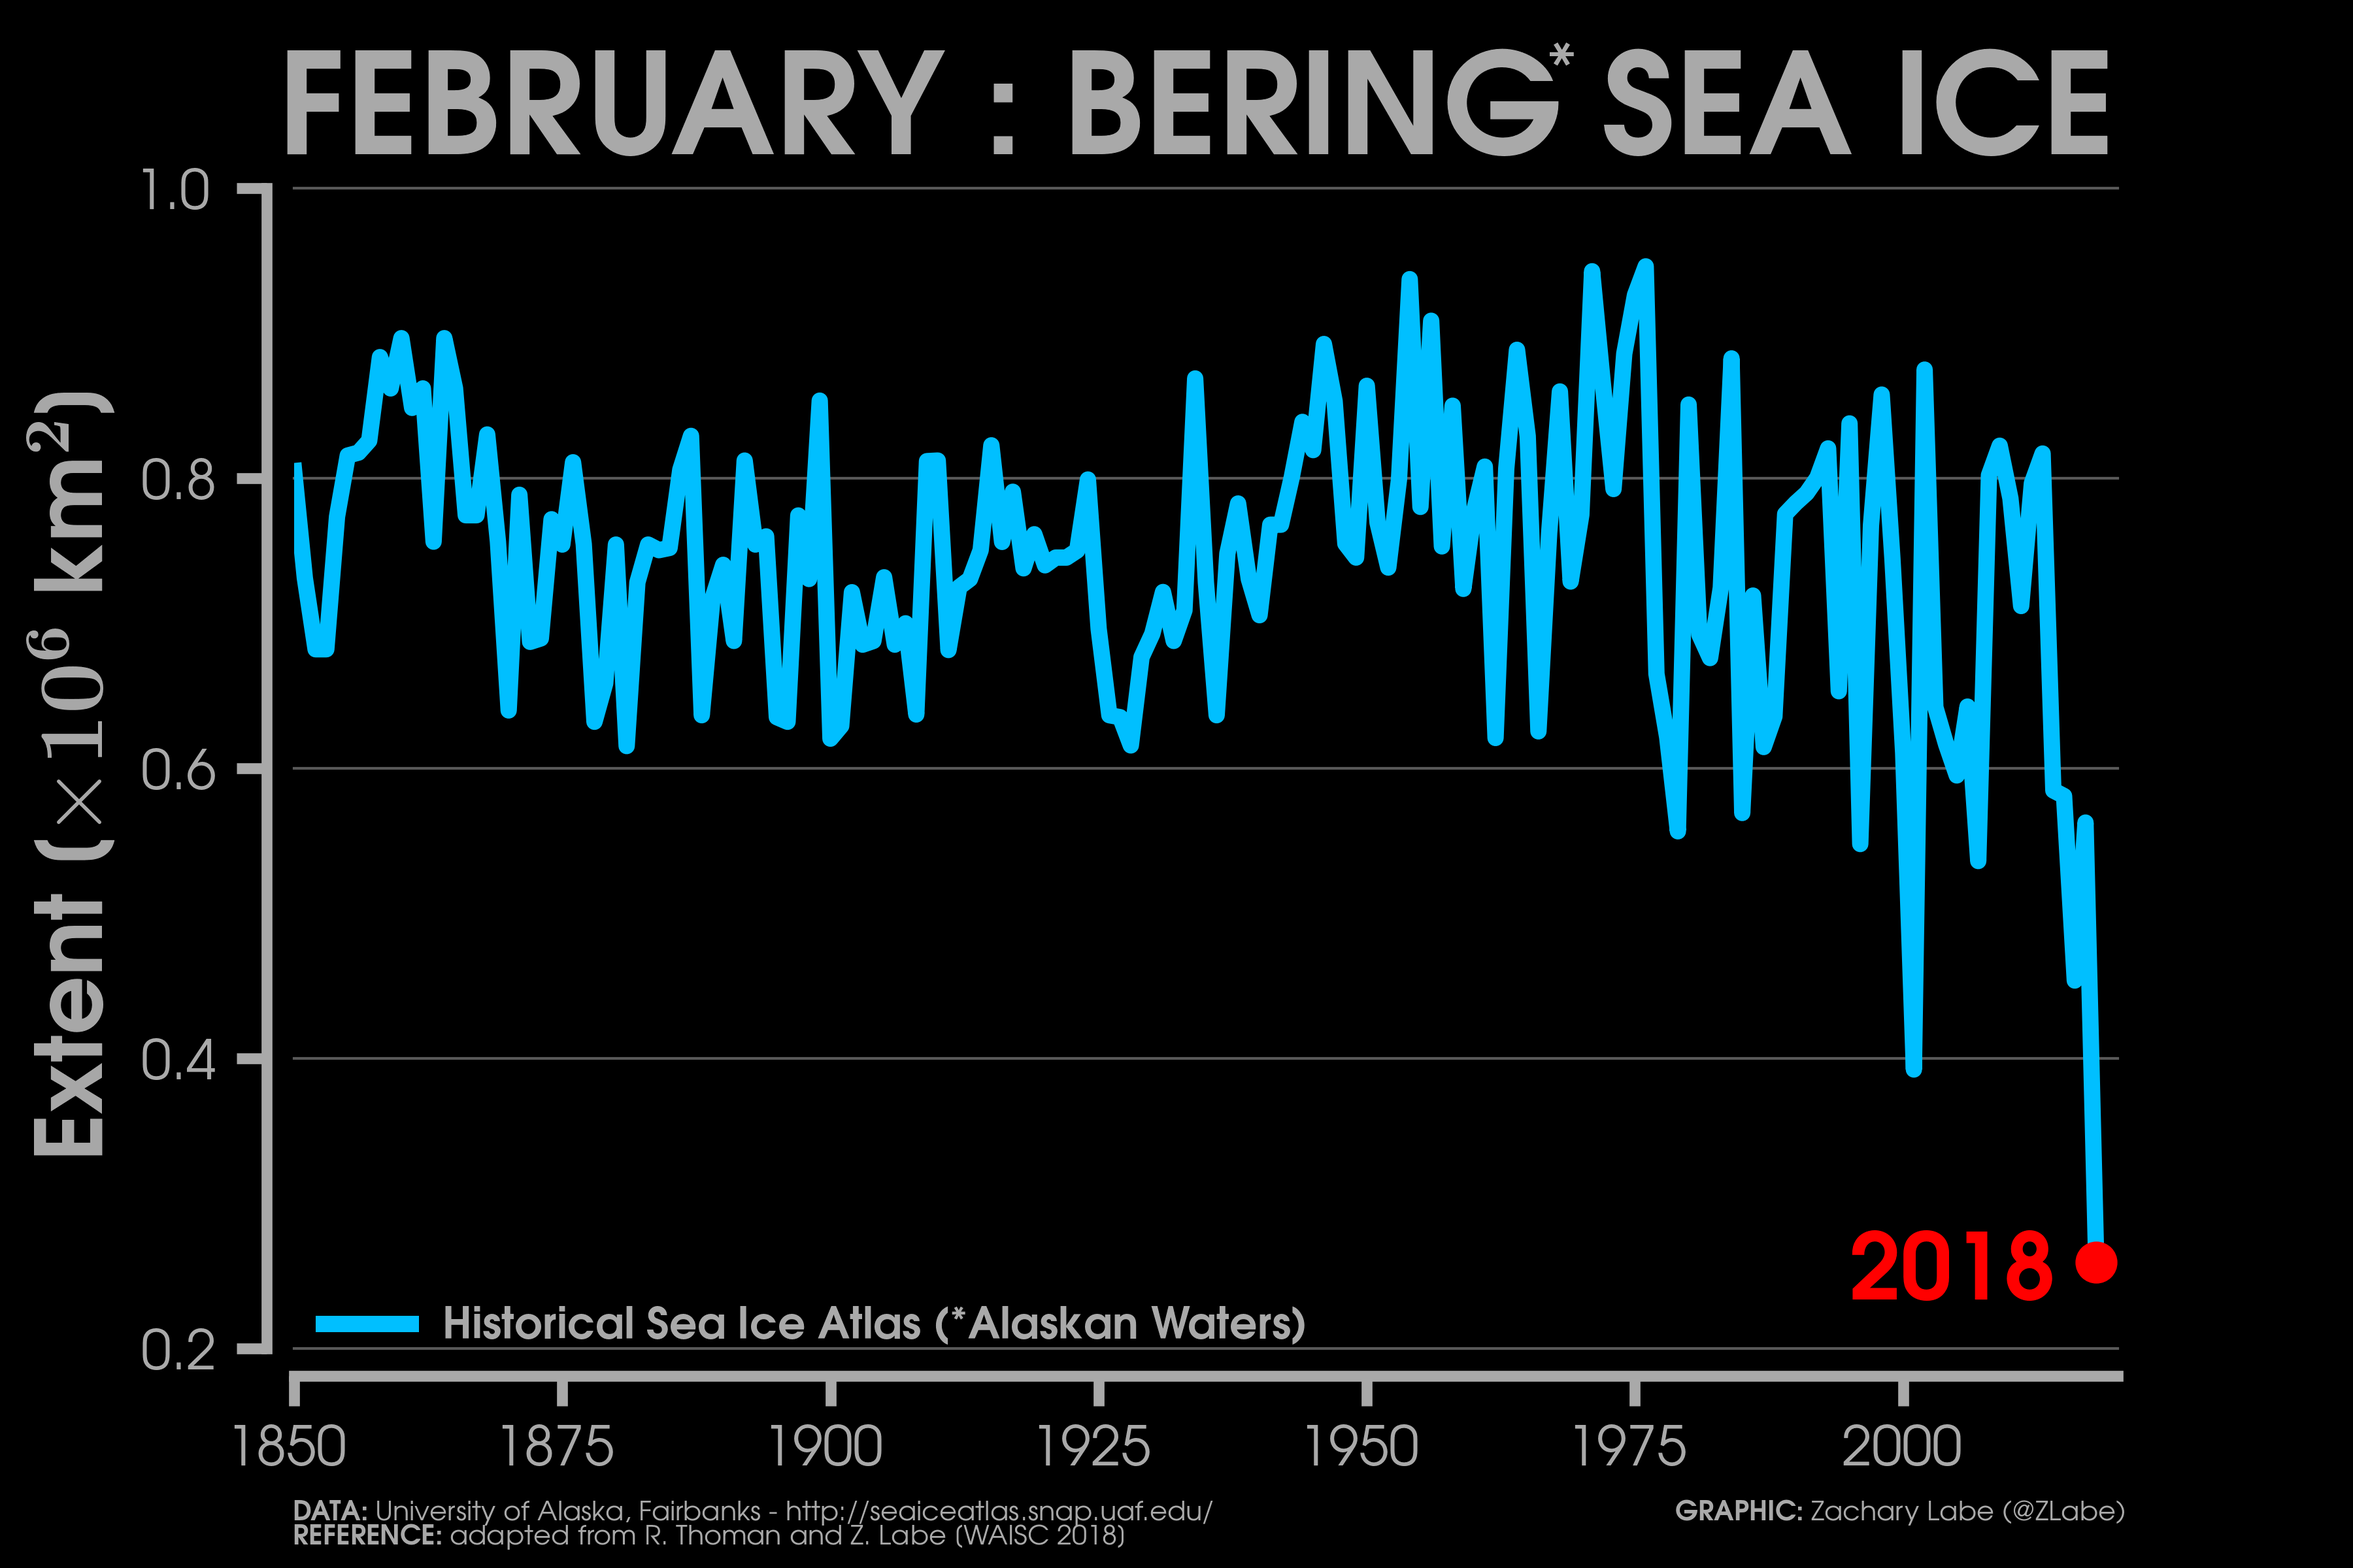
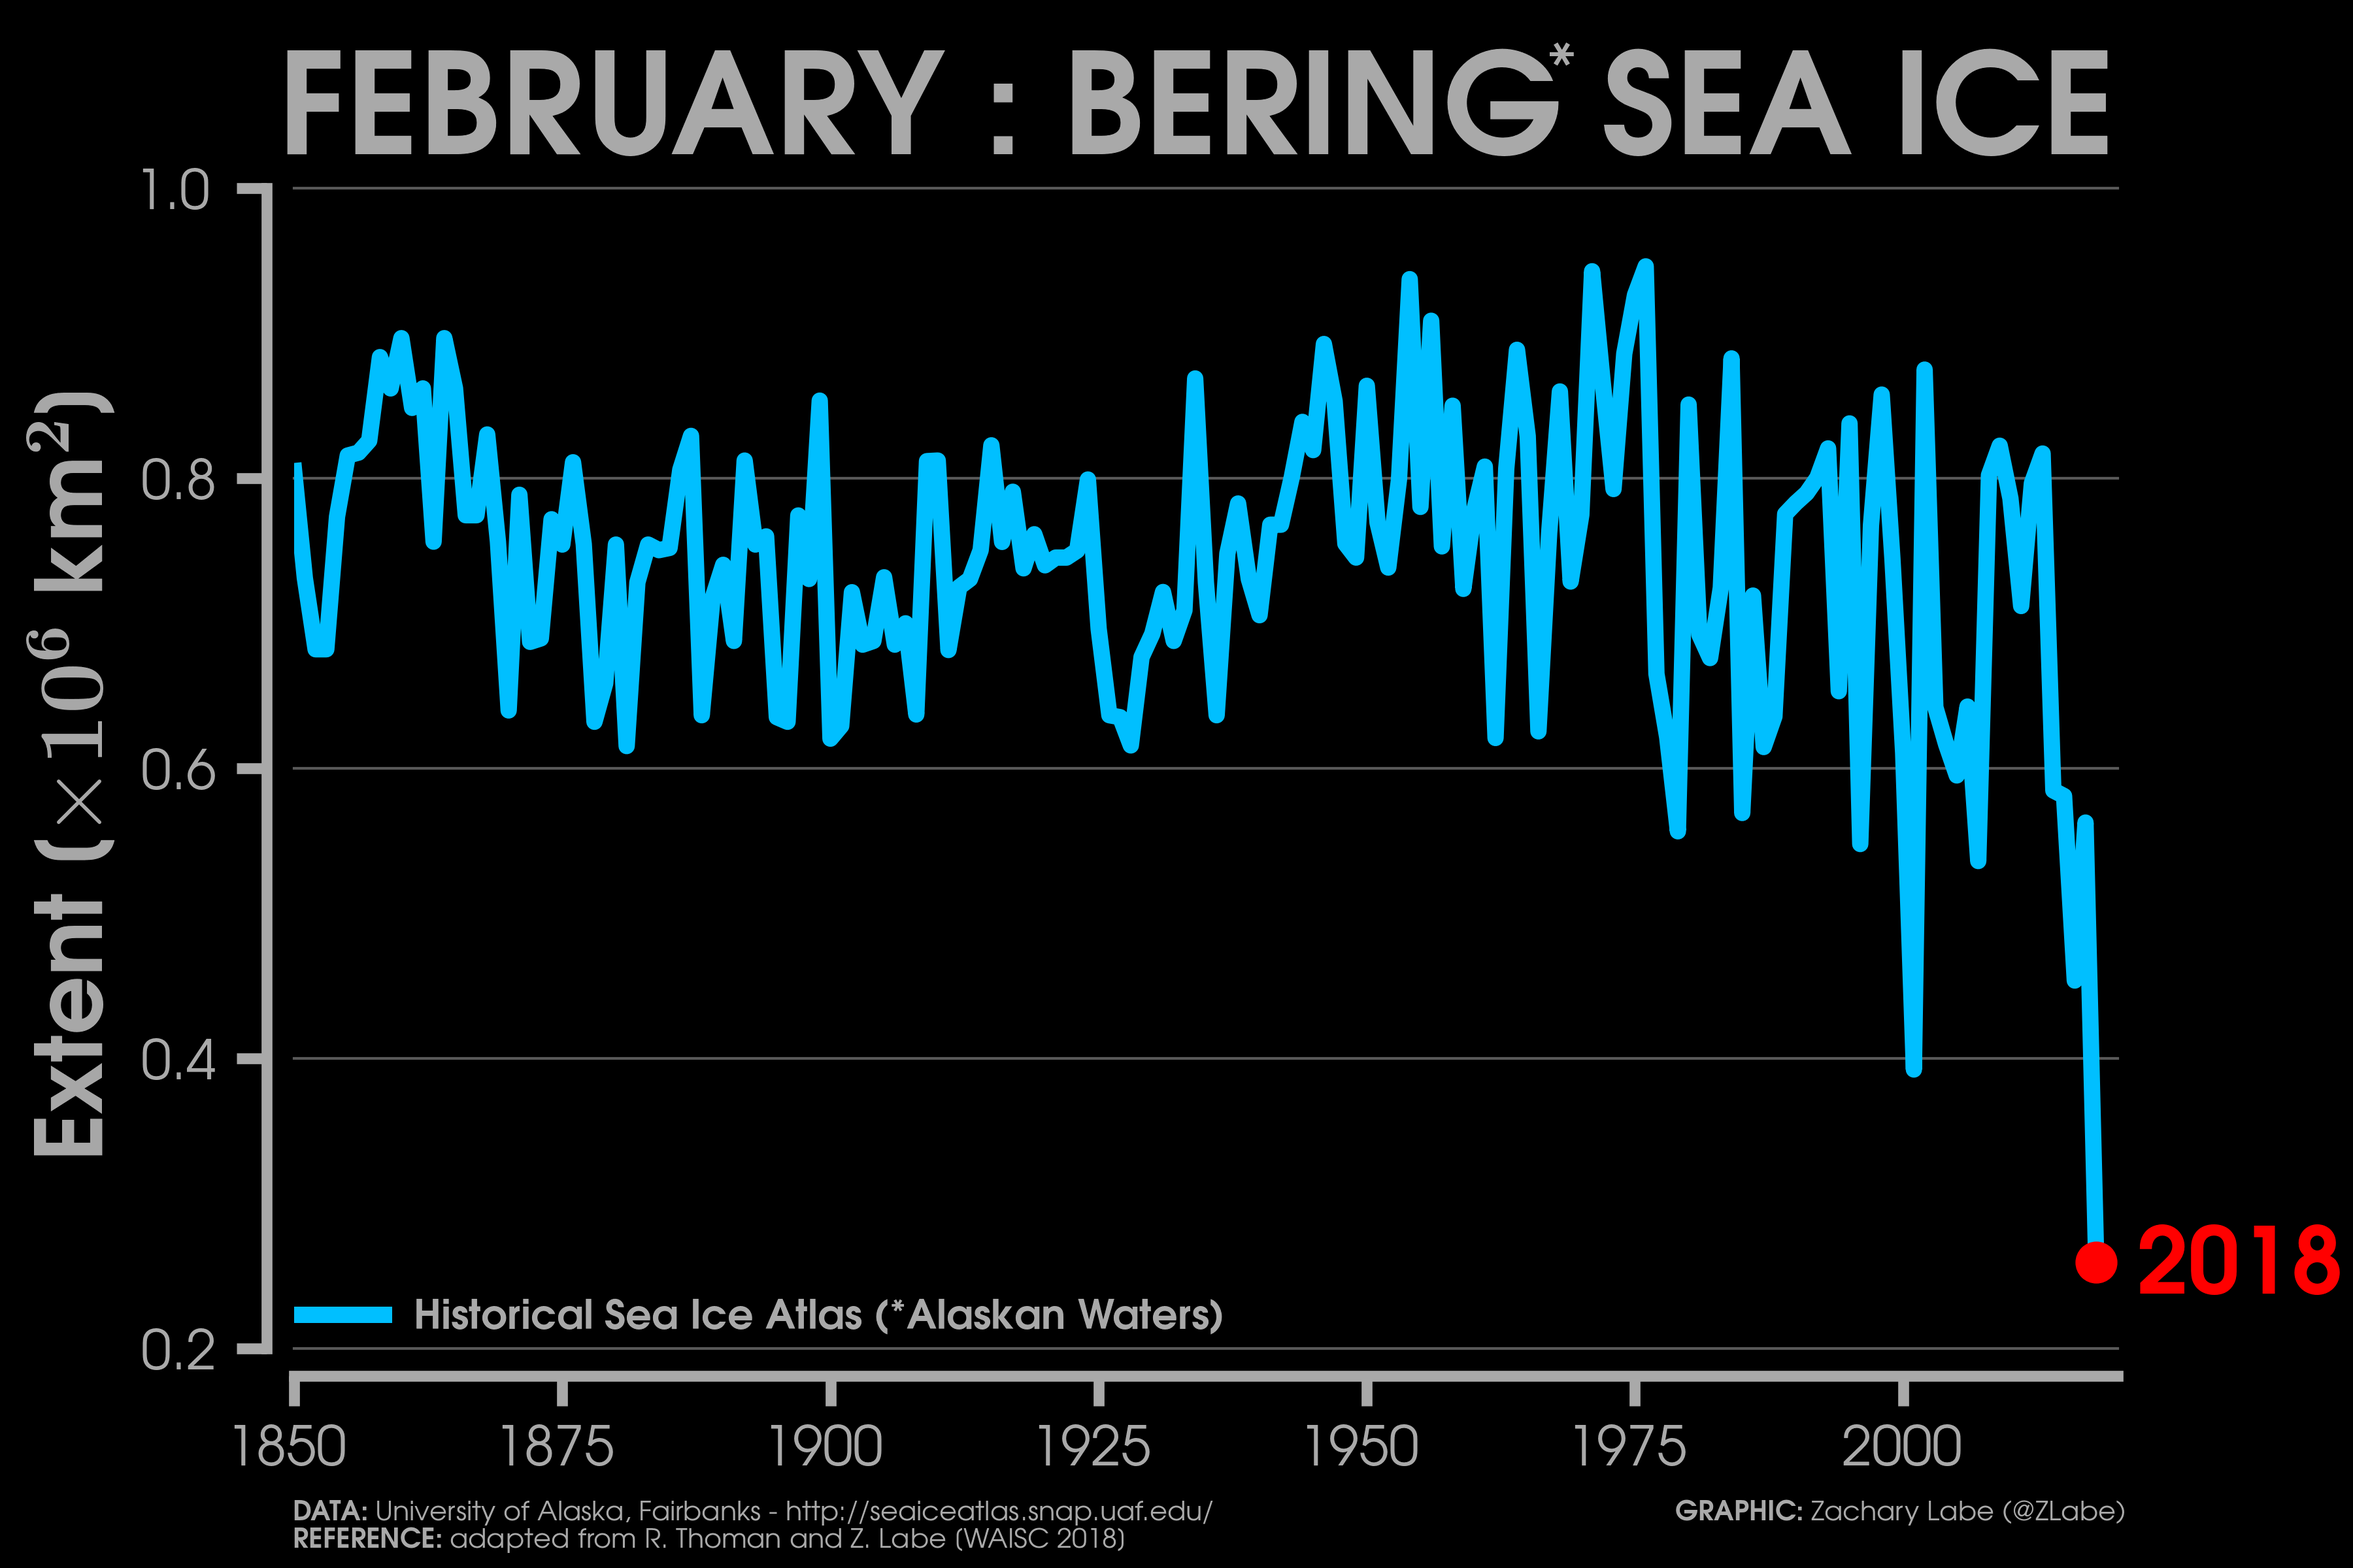
small label edits

diff --git a/Scripts/plot_BeringSeaIceExtent_socialmedia.py b/Scripts/plot_BeringSeaIceExtent_socialmedia.py
@@ -84,7 +84,7 @@ plt.plot(years,ext,linewidth=3,color='deepskyblue',
          label=r'\textbf{Historical Sea Ice Atlas (*Alaskan Waters)}',
          zorder=2)
 plt.scatter(years[-1],ext[-1],s=45,color='r',zorder=3)
-plt.text(1995.2,0.233,r'\textbf{2018}',color='r',fontsize=17)
+plt.text(2022,0.237,r'\textbf{2018}',color='r',fontsize=17)
 
 xlabels = list(map(str,np.arange(1850,2021,25)))
 plt.xticks(np.arange(1850,2021,25),xlabels,rotation=0,color='darkgrey')
@@ -99,8 +99,8 @@ plt.title(r'\textbf{FEBRUARY : BERING SEA ICE}',
 plt.ylabel(r'\textbf{Extent [$\bf{\times 10^{6}}$\ \textbf{km}$\bf{^2}$]}',
            fontsize=17,alpha=1,color='darkgrey',rotation=90) 
 
-le = plt.legend(shadow=False,fontsize=8,loc='upper center',
-           bbox_to_anchor=(0.2867, 0.07),fancybox=True,frameon=False,ncol=1)
+le = plt.legend(shadow=False,fontsize=7.5,loc='upper center',
+           bbox_to_anchor=(0.258, 0.075),fancybox=True,frameon=False,ncol=1)
 for text in le.get_texts():
     text.set_color('darkgrey') 
     
@@ -112,7 +112,7 @@ plt.text(1967,1.06,r'*',
 
 plt.text(1850,0.082,r'\textbf{DATA:} University of Alaska, Fairbanks - http://seaiceatlas.snap.uaf.edu/',
          fontsize=5,rotation='horizontal',ha='left',color='darkgrey')
-plt.text(1850,0.065,r'\textbf{REFERENCE:} adapted from R. Thoman and Z. Labe [WAISC 2018]',
+plt.text(1850,0.063,r'\textbf{REFERENCE:} adapted from R. Thoman and Z. Labe [WAISC 2018]',
          fontsize=5,rotation='horizontal',ha='left',color='darkgrey')
 plt.text(2020.9,0.082,r'\textbf{GRAPHIC:} Zachary Labe (@ZLabe)',
          fontsize=5,rotation='horizontal',ha='right',color='darkgrey') 
